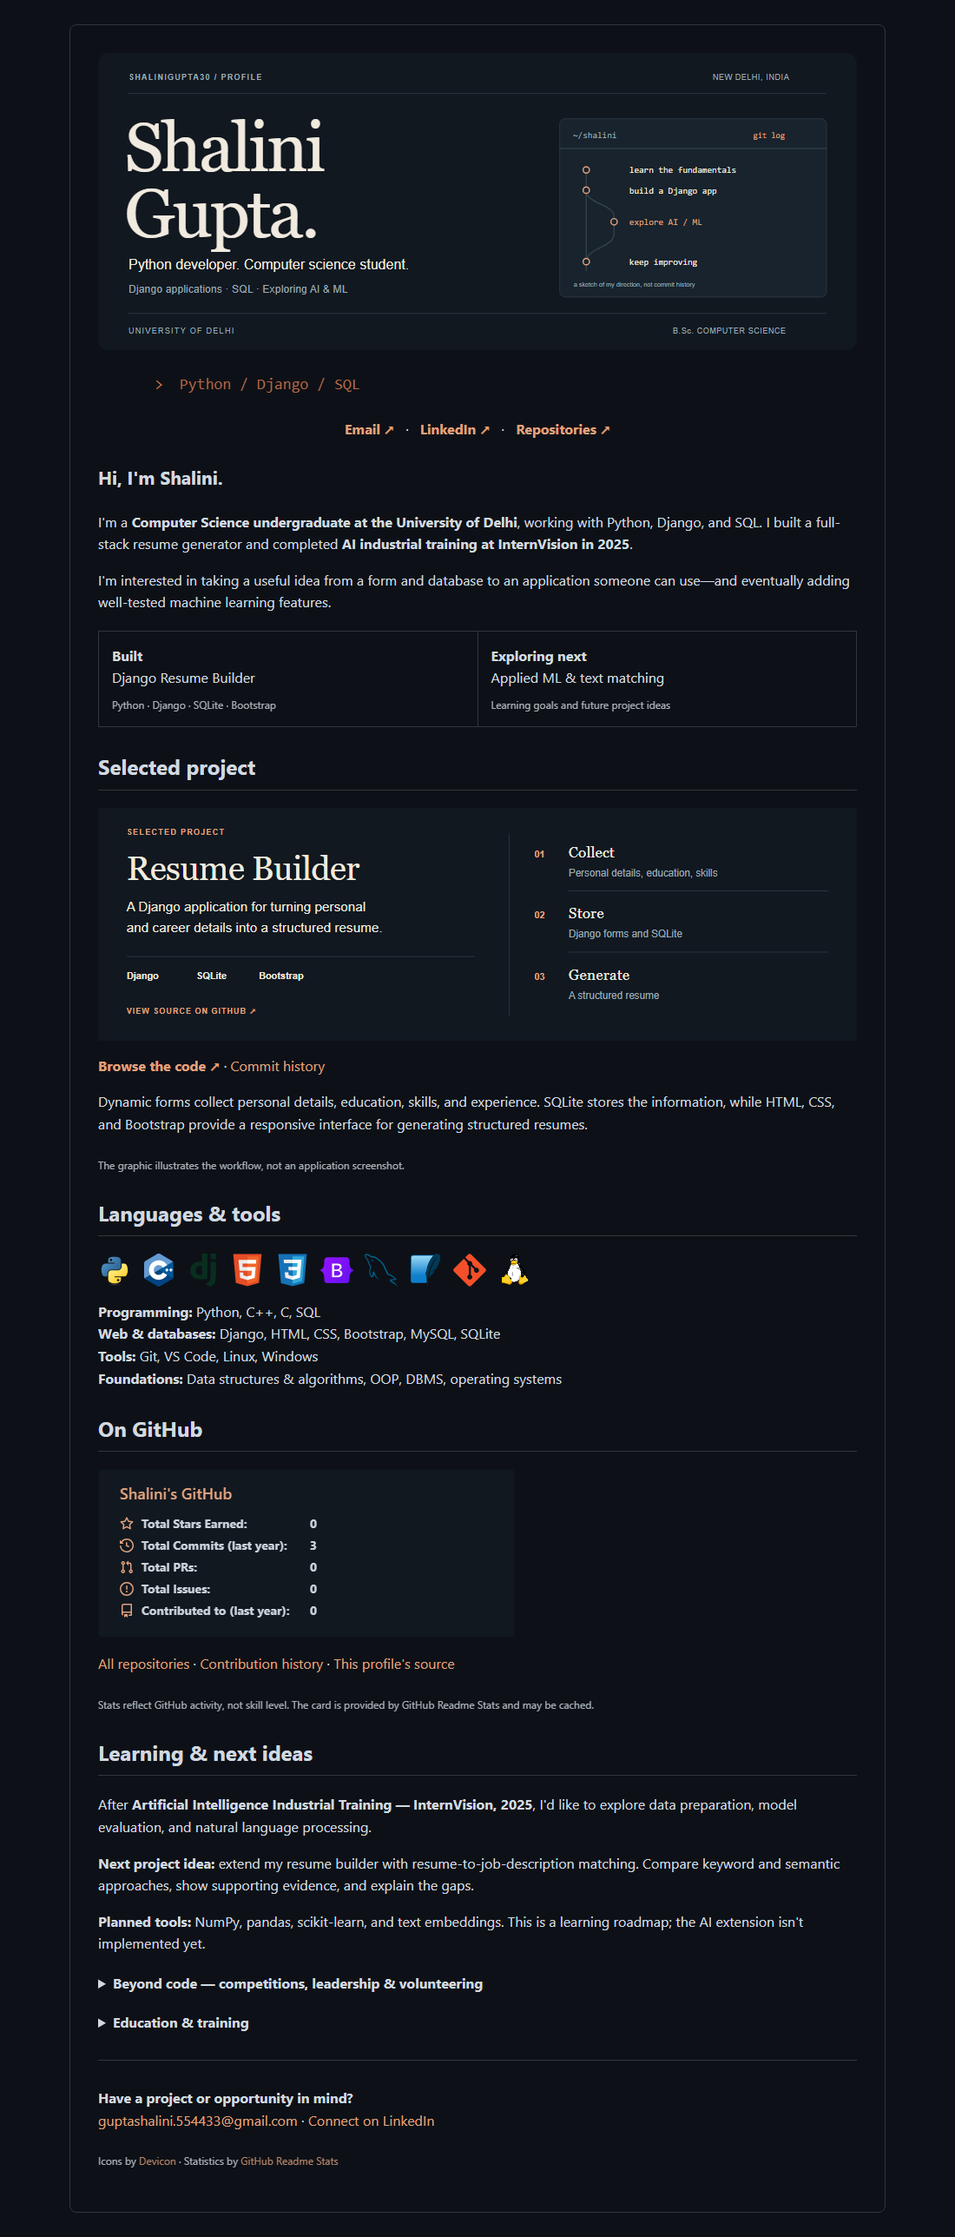
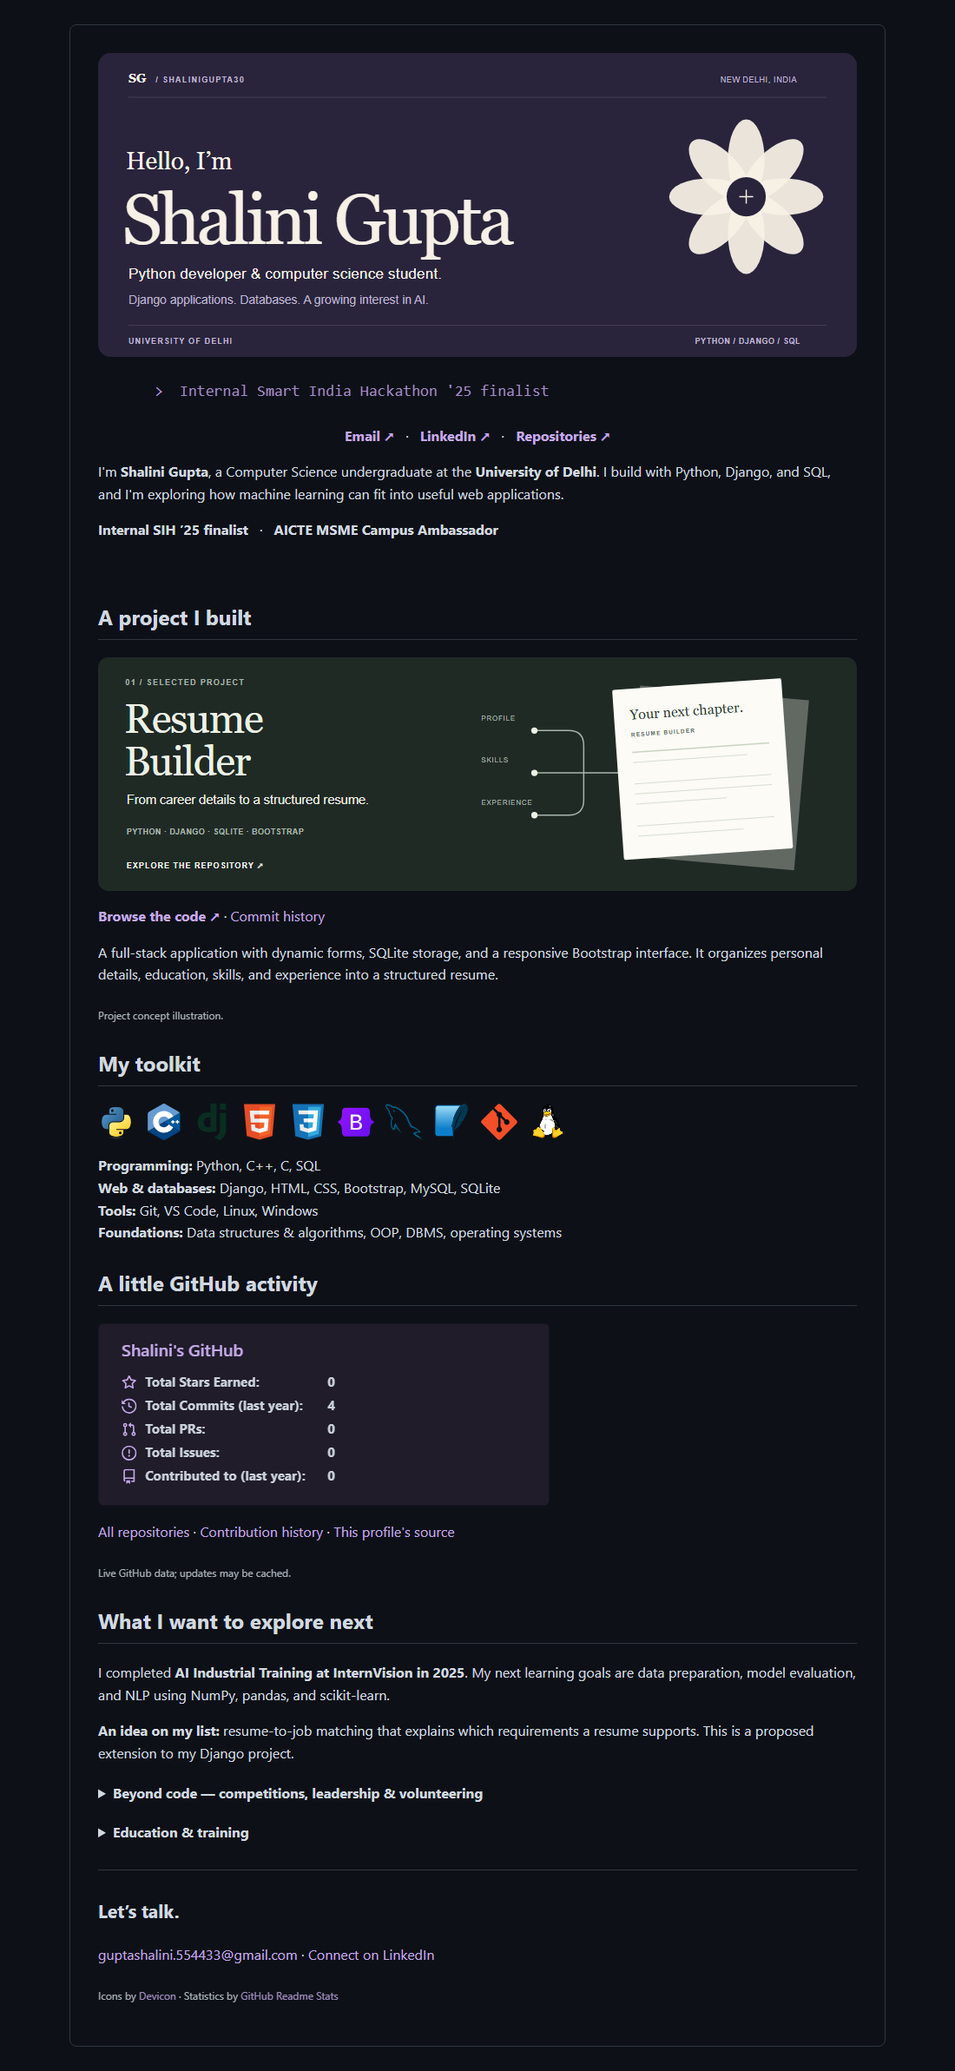
1

Changed region(s): [[0.0927, 0.0, 0.8964, 0.9929], [0.4018, 0.7136, 0.4636, 0.7757]]

diff --git a/preview.html b/preview.html
@@ -1,4 +1,4 @@
-<!doctype html><html><head><meta charset="utf-8"><meta name="viewport" content="width=device-width, initial-scale=1"><title>Shalini Gupta — README preview</title><style>:root{color-scheme:light;--bg:#fff;--fg:#1f2328;--line:#d1d9e0;--link:#9d4c30}@media(prefers-color-scheme:dark){:root{color-scheme:dark;--bg:#0d1117;--fg:#d1d9e0;--line:#30363d;--link:#e1a27d}}*{box-sizing:border-box}body{background:var(--bg);color:var(--fg);font:16px/1.6 -apple-system,BlinkMacSystemFont,'Segoe UI',sans-serif;margin:0;padding:28px}main{max-width:940px;margin:auto;border:1px solid var(--line);border-radius:8px;padding:32px}h2{font-size:24px;line-height:1.3;padding-bottom:10px;border-bottom:1px solid var(--line);margin-top:30px}h3{font-size:21px;margin-top:26px}a{color:var(--link);text-decoration:none}img{max-width:100%;height:auto;vertical-align:middle}p{margin:16px 0}table{width:100%;border-collapse:collapse;margin:20px 0}td{border:1px solid var(--line);padding:15px}sub{font-size:12px;color:var(--fg);opacity:.8}details{margin:20px 0}summary{cursor:pointer}hr{border:0;border-top:1px solid var(--line);margin:30px 0}@media(max-width:600px){body{padding:8px}main{padding:15px}body{font-size:14px}}</style></head><body><main><picture>
+<!doctype html><html><head><meta charset="utf-8"><meta name="viewport" content="width=device-width, initial-scale=1"><title>Shalini Gupta — README preview</title><style>:root{color-scheme:light;--bg:#fff;--fg:#1f2328;--line:#d1d9e0;--link:#74518F}@media(prefers-color-scheme:dark){:root{color-scheme:dark;--bg:#0d1117;--fg:#d1d9e0;--line:#30363d;--link:#C4A9E8}}*{box-sizing:border-box}body{background:var(--bg);color:var(--fg);font:16px/1.6 -apple-system,BlinkMacSystemFont,'Segoe UI',sans-serif;margin:0;padding:28px}main{max-width:940px;margin:auto;border:1px solid var(--line);border-radius:8px;padding:32px}h2{font-size:24px;line-height:1.3;padding-bottom:10px;border-bottom:1px solid var(--line);margin-top:30px}h3{font-size:21px;margin-top:26px}a{color:var(--link);text-decoration:none}img{max-width:100%;height:auto;vertical-align:middle}p{margin:16px 0}table{width:100%;border-collapse:collapse;margin:20px 0}td{border:1px solid var(--line);padding:15px}sub{font-size:12px;color:var(--fg);opacity:.8}details{margin:20px 0}summary{cursor:pointer}hr{border:0;border-top:1px solid var(--line);margin:30px 0}@media(max-width:600px){body{padding:8px}main{padding:15px}body{font-size:14px}}</style></head><body><main><picture>
   <source media="(prefers-color-scheme: dark)" srcset="header-dark.svg" />
   <img src="header-light.svg" width="100%" alt="Shalini Gupta — Python developer and Computer Science student at the University of Delhi. Interested in AI and ML." />
 </picture>
@@ -11,17 +11,11 @@
   <a href="https://github.com/Shalinigupta30?tab=repositories"><b>Repositories ↗</b></a>
 </p>
 
-<h3>Hi, I&#39;m Shalini.</h3>
-<p>I&#39;m a <strong>Computer Science undergraduate at the University of Delhi</strong>, working with Python, Django, and SQL. I built a full-stack resume generator and completed <strong>AI industrial training at InternVision in 2025</strong>.</p>
-<p>I&#39;m interested in taking a useful idea from a form and database to an application someone can use—and eventually adding well-tested machine learning features.</p>
-<table>
-  <tr>
-    <td width="50%"><b>Built</b><br />Django Resume Builder<br /><sub>Python · Django · SQLite · Bootstrap</sub></td>
-    <td width="50%"><b>Exploring next</b><br />Applied ML &amp; text matching<br /><sub>Learning goals and future project ideas</sub></td>
-  </tr>
-</table>
+<p>I&#39;m <strong>Shalini Gupta</strong>, a Computer Science undergraduate at the <strong>University of Delhi</strong>. I build with Python, Django, and SQL, and I&#39;m exploring how machine learning can fit into useful web applications.</p>
+<p><strong>Internal SIH ’25 finalist</strong> &nbsp; · &nbsp; <strong>AICTE MSME Campus Ambassador</strong></p>
+<br />
 
-<h2>Selected project</h2>
+<h2>A project I built</h2>
 <a href="https://github.com/Shalinigupta30/resume-builder-web-app">
   <picture>
     <source media="(prefers-color-scheme: dark)" srcset="project-dark.svg" />
@@ -30,37 +24,36 @@
 </a>
 
 <p><strong><a href="https://github.com/Shalinigupta30/resume-builder-web-app">Browse the code ↗</a></strong> · <a href="https://github.com/Shalinigupta30/resume-builder-web-app/commits">Commit history</a></p>
-<p>Dynamic forms collect personal details, education, skills, and experience. SQLite stores the information, while HTML, CSS, and Bootstrap provide a responsive interface for generating structured resumes.</p>
-<p><sub>The graphic illustrates the workflow, not an application screenshot.</sub></p>
-<h2>Languages &amp; tools</h2>
+<p>A full-stack application with dynamic forms, SQLite storage, and a responsive Bootstrap interface. It organizes personal details, education, skills, and experience into a structured resume.</p>
+<p><sub>Project concept illustration.</sub></p>
+<h2>My toolkit</h2>
 <p>
-  <img src="https://raw.githubusercontent.com/devicons/devicon/master/icons/python/python-original.svg" width="38" height="38" alt="Python" title="Python" /> &nbsp;
-  <img src="https://raw.githubusercontent.com/devicons/devicon/master/icons/cplusplus/cplusplus-original.svg" width="38" height="38" alt="C++" title="C++" /> &nbsp;
-  <img src="https://raw.githubusercontent.com/devicons/devicon/master/icons/django/django-plain.svg" width="38" height="38" alt="Django" title="Django" /> &nbsp;
-  <img src="https://raw.githubusercontent.com/devicons/devicon/master/icons/html5/html5-original.svg" width="38" height="38" alt="HTML" title="HTML" /> &nbsp;
-  <img src="https://raw.githubusercontent.com/devicons/devicon/master/icons/css3/css3-original.svg" width="38" height="38" alt="CSS" title="CSS" /> &nbsp;
-  <img src="https://raw.githubusercontent.com/devicons/devicon/master/icons/bootstrap/bootstrap-original.svg" width="38" height="38" alt="Bootstrap" title="Bootstrap" /> &nbsp;
-  <img src="https://raw.githubusercontent.com/devicons/devicon/master/icons/mysql/mysql-original.svg" width="38" height="38" alt="MySQL" title="MySQL" /> &nbsp;
-  <img src="https://raw.githubusercontent.com/devicons/devicon/master/icons/sqlite/sqlite-original.svg" width="38" height="38" alt="SQLite" title="SQLite" /> &nbsp;
-  <img src="https://raw.githubusercontent.com/devicons/devicon/master/icons/git/git-original.svg" width="38" height="38" alt="Git" title="Git" /> &nbsp;
-  <img src="https://raw.githubusercontent.com/devicons/devicon/master/icons/linux/linux-original.svg" width="38" height="38" alt="Linux" title="Linux" /> &nbsp;
+  <img src="https://raw.githubusercontent.com/devicons/devicon/master/icons/python/python-original.svg" width="42" height="42" alt="Python" title="Python" /> &nbsp;
+  <img src="https://raw.githubusercontent.com/devicons/devicon/master/icons/cplusplus/cplusplus-original.svg" width="42" height="42" alt="C++" title="C++" /> &nbsp;
+  <img src="https://raw.githubusercontent.com/devicons/devicon/master/icons/django/django-plain.svg" width="42" height="42" alt="Django" title="Django" /> &nbsp;
+  <img src="https://raw.githubusercontent.com/devicons/devicon/master/icons/html5/html5-original.svg" width="42" height="42" alt="HTML" title="HTML" /> &nbsp;
+  <img src="https://raw.githubusercontent.com/devicons/devicon/master/icons/css3/css3-original.svg" width="42" height="42" alt="CSS" title="CSS" /> &nbsp;
+  <img src="https://raw.githubusercontent.com/devicons/devicon/master/icons/bootstrap/bootstrap-original.svg" width="42" height="42" alt="Bootstrap" title="Bootstrap" /> &nbsp;
+  <img src="https://raw.githubusercontent.com/devicons/devicon/master/icons/mysql/mysql-original.svg" width="42" height="42" alt="MySQL" title="MySQL" /> &nbsp;
+  <img src="https://raw.githubusercontent.com/devicons/devicon/master/icons/sqlite/sqlite-original.svg" width="42" height="42" alt="SQLite" title="SQLite" /> &nbsp;
+  <img src="https://raw.githubusercontent.com/devicons/devicon/master/icons/git/git-original.svg" width="42" height="42" alt="Git" title="Git" /> &nbsp;
+  <img src="https://raw.githubusercontent.com/devicons/devicon/master/icons/linux/linux-original.svg" width="42" height="42" alt="Linux" title="Linux" /> &nbsp;
 </p>
 
 <p><strong>Programming:</strong> Python, C++, C, SQL<br><strong>Web &amp; databases:</strong> Django, HTML, CSS, Bootstrap, MySQL, SQLite<br><strong>Tools:</strong> Git, VS Code, Linux, Windows<br><strong>Foundations:</strong> Data structures &amp; algorithms, OOP, DBMS, operating systems</p>
-<h2>On GitHub</h2>
+<h2>A little GitHub activity</h2>
 <a href="https://github.com/Shalinigupta30?tab=overview">
   <picture>
-    <source media="(prefers-color-scheme: dark)" srcset="https://github-readme-stats.vercel.app/api?username=Shalinigupta30&amp;show_icons=true&amp;hide_rank=true&amp;title_color=E1A27D&amp;text_color=C9D1D9&amp;icon_color=E1A27D&amp;bg_color=111820&amp;hide_border=true&amp;custom_title=Shalini%27s%20GitHub&amp;card_width=480&amp;disable_animations=true" />
-    <img src="https://github-readme-stats.vercel.app/api?username=Shalinigupta30&amp;show_icons=true&amp;hide_rank=true&amp;title_color=AC4B30&amp;text_color=252923&amp;icon_color=AC4B30&amp;bg_color=F2EFE6&amp;hide_border=true&amp;custom_title=Shalini%27s%20GitHub&amp;card_width=480&amp;disable_animations=true" width="480" alt="Shalini's live GitHub statistics. Open the GitHub profile if the card is unavailable." />
+    <source media="(prefers-color-scheme: dark)" srcset="https://github-readme-stats.vercel.app/api?username=Shalinigupta30&amp;show_icons=true&amp;hide_rank=true&amp;title_color=C4A9E8&amp;text_color=C9D1D9&amp;icon_color=C4A9E8&amp;bg_color=201C2A&amp;hide_border=true&amp;custom_title=Shalini%27s%20GitHub&amp;card_width=480&amp;disable_animations=true" />
+    <img src="https://github-readme-stats.vercel.app/api?username=Shalinigupta30&amp;show_icons=true&amp;hide_rank=true&amp;title_color=74518F&amp;text_color=29243B&amp;icon_color=74518F&amp;bg_color=F0EAF5&amp;hide_border=true&amp;custom_title=Shalini%27s%20GitHub&amp;card_width=480&amp;disable_animations=true" width="520" alt="Shalini's live GitHub statistics. Open the GitHub profile if the card is unavailable." />
   </picture>
 </a>
 
 <p><a href="https://github.com/Shalinigupta30?tab=repositories">All repositories</a> · <a href="https://github.com/Shalinigupta30?tab=overview">Contribution history</a> · <a href="https://github.com/Shalinigupta30/Shalinigupta30">This profile&#39;s source</a></p>
-<p><sub>Stats reflect GitHub activity, not skill level. The card is provided by GitHub Readme Stats and may be cached.</sub></p>
-<h2>Learning &amp; next ideas</h2>
-<p>After <strong>Artificial Intelligence Industrial Training — InternVision, 2025</strong>, I&#39;d like to explore data preparation, model evaluation, and natural language processing.</p>
-<p><strong>Next project idea:</strong> extend my resume builder with resume-to-job-description matching. Compare keyword and semantic approaches, show supporting evidence, and explain the gaps.</p>
-<p><strong>Planned tools:</strong> NumPy, pandas, scikit-learn, and text embeddings. This is a learning roadmap; the AI extension isn&#39;t implemented yet.</p>
+<p><sub>Live GitHub data; updates may be cached.</sub></p>
+<h2>What I want to explore next</h2>
+<p>I completed <strong>AI Industrial Training at InternVision in 2025</strong>. My next learning goals are data preparation, model evaluation, and NLP using NumPy, pandas, and scikit-learn.</p>
+<p><strong>An idea on my list:</strong> resume-to-job matching that explains which requirements a resume supports. This is a proposed extension to my Django project.</p>
 <details>
 <summary><b>Beyond code — competitions, leadership & volunteering</b></summary>
 
@@ -87,6 +80,7 @@
 </details>
 
 <hr>
-<p><strong>Have a project or opportunity in mind?</strong><br><a href="mailto:guptashalini.554433@gmail.com">guptashalini.554433@gmail.com</a> · <a href="https://www.linkedin.com/in/shalinigupta35/">Connect on LinkedIn</a></p>
+<h3>Let’s talk.</h3>
+<p><a href="mailto:guptashalini.554433@gmail.com">guptashalini.554433@gmail.com</a> · <a href="https://www.linkedin.com/in/shalinigupta35/">Connect on LinkedIn</a></p>
 <p><sub>Icons by <a href="https://github.com/devicons/devicon">Devicon</a> · Statistics by <a href="https://github.com/anuraghazra/github-readme-stats">GitHub Readme Stats</a></sub></p>
 </main></body></html>

diff --git a/README.md b/README.md
@@ -11,20 +11,13 @@
   <a href="https://github.com/Shalinigupta30?tab=repositories"><b>Repositories ↗</b></a>
 </p>
 
-### Hi, I'm Shalini.
+I'm **Shalini Gupta**, a Computer Science undergraduate at the **University of Delhi**. I build with Python, Django, and SQL, and I'm exploring how machine learning can fit into useful web applications.
 
-I'm a **Computer Science undergraduate at the University of Delhi**, working with Python, Django, and SQL. I built a full-stack resume generator and completed **AI industrial training at InternVision in 2025**.
+**Internal SIH ’25 finalist** &nbsp; · &nbsp; **AICTE MSME Campus Ambassador**
 
-I'm interested in taking a useful idea from a form and database to an application someone can use—and eventually adding well-tested machine learning features.
+<br />
 
-<table>
-  <tr>
-    <td width="50%"><b>Built</b><br />Django Resume Builder<br /><sub>Python · Django · SQLite · Bootstrap</sub></td>
-    <td width="50%"><b>Exploring next</b><br />Applied ML &amp; text matching<br /><sub>Learning goals and future project ideas</sub></td>
-  </tr>
-</table>
-
-## Selected project
+## A project I built
 
 <a href="https://github.com/Shalinigupta30/resume-builder-web-app">
   <picture>
@@ -35,23 +28,23 @@ I'm interested in taking a useful idea from a form and database to an applicatio
 
 **[Browse the code ↗](https://github.com/Shalinigupta30/resume-builder-web-app)** · [Commit history](https://github.com/Shalinigupta30/resume-builder-web-app/commits)
 
-Dynamic forms collect personal details, education, skills, and experience. SQLite stores the information, while HTML, CSS, and Bootstrap provide a responsive interface for generating structured resumes.
+A full-stack application with dynamic forms, SQLite storage, and a responsive Bootstrap interface. It organizes personal details, education, skills, and experience into a structured resume.
 
-<sub>The graphic illustrates the workflow, not an application screenshot.</sub>
+<sub>Project concept illustration.</sub>
 
-## Languages & tools
+## My toolkit
 
 <p>
-  <img src="https://raw.githubusercontent.com/devicons/devicon/master/icons/python/python-original.svg" width="38" height="38" alt="Python" title="Python" /> &nbsp;
-  <img src="https://raw.githubusercontent.com/devicons/devicon/master/icons/cplusplus/cplusplus-original.svg" width="38" height="38" alt="C++" title="C++" /> &nbsp;
-  <img src="https://raw.githubusercontent.com/devicons/devicon/master/icons/django/django-plain.svg" width="38" height="38" alt="Django" title="Django" /> &nbsp;
-  <img src="https://raw.githubusercontent.com/devicons/devicon/master/icons/html5/html5-original.svg" width="38" height="38" alt="HTML" title="HTML" /> &nbsp;
-  <img src="https://raw.githubusercontent.com/devicons/devicon/master/icons/css3/css3-original.svg" width="38" height="38" alt="CSS" title="CSS" /> &nbsp;
-  <img src="https://raw.githubusercontent.com/devicons/devicon/master/icons/bootstrap/bootstrap-original.svg" width="38" height="38" alt="Bootstrap" title="Bootstrap" /> &nbsp;
-  <img src="https://raw.githubusercontent.com/devicons/devicon/master/icons/mysql/mysql-original.svg" width="38" height="38" alt="MySQL" title="MySQL" /> &nbsp;
-  <img src="https://raw.githubusercontent.com/devicons/devicon/master/icons/sqlite/sqlite-original.svg" width="38" height="38" alt="SQLite" title="SQLite" /> &nbsp;
-  <img src="https://raw.githubusercontent.com/devicons/devicon/master/icons/git/git-original.svg" width="38" height="38" alt="Git" title="Git" /> &nbsp;
-  <img src="https://raw.githubusercontent.com/devicons/devicon/master/icons/linux/linux-original.svg" width="38" height="38" alt="Linux" title="Linux" /> &nbsp;
+  <img src="https://raw.githubusercontent.com/devicons/devicon/master/icons/python/python-original.svg" width="42" height="42" alt="Python" title="Python" /> &nbsp;
+  <img src="https://raw.githubusercontent.com/devicons/devicon/master/icons/cplusplus/cplusplus-original.svg" width="42" height="42" alt="C++" title="C++" /> &nbsp;
+  <img src="https://raw.githubusercontent.com/devicons/devicon/master/icons/django/django-plain.svg" width="42" height="42" alt="Django" title="Django" /> &nbsp;
+  <img src="https://raw.githubusercontent.com/devicons/devicon/master/icons/html5/html5-original.svg" width="42" height="42" alt="HTML" title="HTML" /> &nbsp;
+  <img src="https://raw.githubusercontent.com/devicons/devicon/master/icons/css3/css3-original.svg" width="42" height="42" alt="CSS" title="CSS" /> &nbsp;
+  <img src="https://raw.githubusercontent.com/devicons/devicon/master/icons/bootstrap/bootstrap-original.svg" width="42" height="42" alt="Bootstrap" title="Bootstrap" /> &nbsp;
+  <img src="https://raw.githubusercontent.com/devicons/devicon/master/icons/mysql/mysql-original.svg" width="42" height="42" alt="MySQL" title="MySQL" /> &nbsp;
+  <img src="https://raw.githubusercontent.com/devicons/devicon/master/icons/sqlite/sqlite-original.svg" width="42" height="42" alt="SQLite" title="SQLite" /> &nbsp;
+  <img src="https://raw.githubusercontent.com/devicons/devicon/master/icons/git/git-original.svg" width="42" height="42" alt="Git" title="Git" /> &nbsp;
+  <img src="https://raw.githubusercontent.com/devicons/devicon/master/icons/linux/linux-original.svg" width="42" height="42" alt="Linux" title="Linux" /> &nbsp;
 </p>
 
 **Programming:** Python, C++, C, SQL  
@@ -59,26 +52,24 @@ Dynamic forms collect personal details, education, skills, and experience. SQLit
 **Tools:** Git, VS Code, Linux, Windows  
 **Foundations:** Data structures & algorithms, OOP, DBMS, operating systems
 
-## On GitHub
+## A little GitHub activity
 
 <a href="https://github.com/Shalinigupta30?tab=overview">
   <picture>
-    <source media="(prefers-color-scheme: dark)" srcset="https://github-readme-stats.vercel.app/api?username=Shalinigupta30&amp;show_icons=true&amp;hide_rank=true&amp;title_color=E1A27D&amp;text_color=C9D1D9&amp;icon_color=E1A27D&amp;bg_color=111820&amp;hide_border=true&amp;custom_title=Shalini%27s%20GitHub&amp;card_width=480&amp;disable_animations=true" />
-    <img src="https://github-readme-stats.vercel.app/api?username=Shalinigupta30&amp;show_icons=true&amp;hide_rank=true&amp;title_color=AC4B30&amp;text_color=252923&amp;icon_color=AC4B30&amp;bg_color=F2EFE6&amp;hide_border=true&amp;custom_title=Shalini%27s%20GitHub&amp;card_width=480&amp;disable_animations=true" width="480" alt="Shalini's live GitHub statistics. Open the GitHub profile if the card is unavailable." />
+    <source media="(prefers-color-scheme: dark)" srcset="https://github-readme-stats.vercel.app/api?username=Shalinigupta30&amp;show_icons=true&amp;hide_rank=true&amp;title_color=C4A9E8&amp;text_color=C9D1D9&amp;icon_color=C4A9E8&amp;bg_color=201C2A&amp;hide_border=true&amp;custom_title=Shalini%27s%20GitHub&amp;card_width=480&amp;disable_animations=true" />
+    <img src="https://github-readme-stats.vercel.app/api?username=Shalinigupta30&amp;show_icons=true&amp;hide_rank=true&amp;title_color=74518F&amp;text_color=29243B&amp;icon_color=74518F&amp;bg_color=F0EAF5&amp;hide_border=true&amp;custom_title=Shalini%27s%20GitHub&amp;card_width=480&amp;disable_animations=true" width="520" alt="Shalini's live GitHub statistics. Open the GitHub profile if the card is unavailable." />
   </picture>
 </a>
 
 [All repositories](https://github.com/Shalinigupta30?tab=repositories) · [Contribution history](https://github.com/Shalinigupta30?tab=overview) · [This profile's source](https://github.com/Shalinigupta30/Shalinigupta30)
 
-<sub>Stats reflect GitHub activity, not skill level. The card is provided by GitHub Readme Stats and may be cached.</sub>
+<sub>Live GitHub data; updates may be cached.</sub>
 
-## Learning & next ideas
+## What I want to explore next
 
-After **Artificial Intelligence Industrial Training — InternVision, 2025**, I'd like to explore data preparation, model evaluation, and natural language processing.
+I completed **AI Industrial Training at InternVision in 2025**. My next learning goals are data preparation, model evaluation, and NLP using NumPy, pandas, and scikit-learn.
 
-**Next project idea:** extend my resume builder with resume-to-job-description matching. Compare keyword and semantic approaches, show supporting evidence, and explain the gaps.
-
-**Planned tools:** NumPy, pandas, scikit-learn, and text embeddings. This is a learning roadmap; the AI extension isn't implemented yet.
+**An idea on my list:** resume-to-job matching that explains which requirements a resume supports. This is a proposed extension to my Django project.
 
 <details>
 <summary><b>Beyond code — competitions, leadership & volunteering</b></summary>
@@ -106,7 +97,7 @@ After **Artificial Intelligence Industrial Training — InternVision, 2025**, I'
 
 ---
 
-**Have a project or opportunity in mind?**  
+### Let’s talk.  
 [guptashalini.554433@gmail.com](mailto:guptashalini.554433@gmail.com) · [Connect on LinkedIn](https://www.linkedin.com/in/shalinigupta35/)
 
 <sub>Icons by <a href="https://github.com/devicons/devicon">Devicon</a> · Statistics by <a href="https://github.com/anuraghazra/github-readme-stats">GitHub Readme Stats</a></sub>
